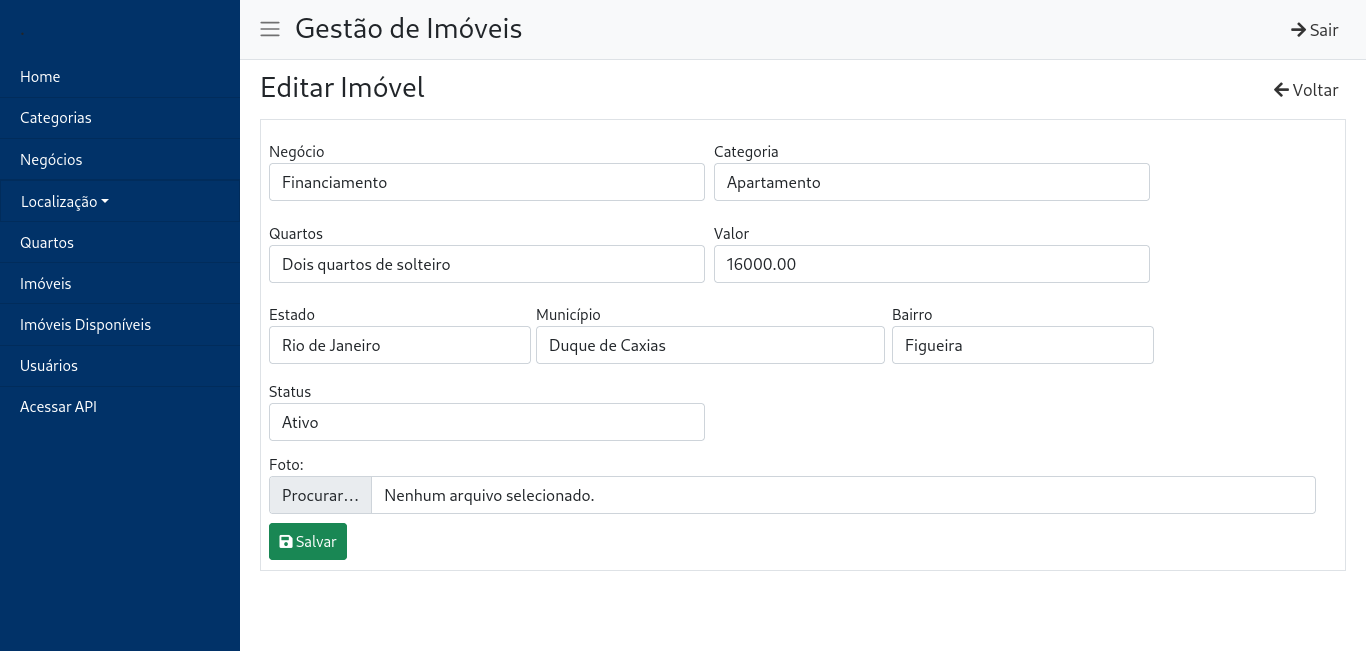
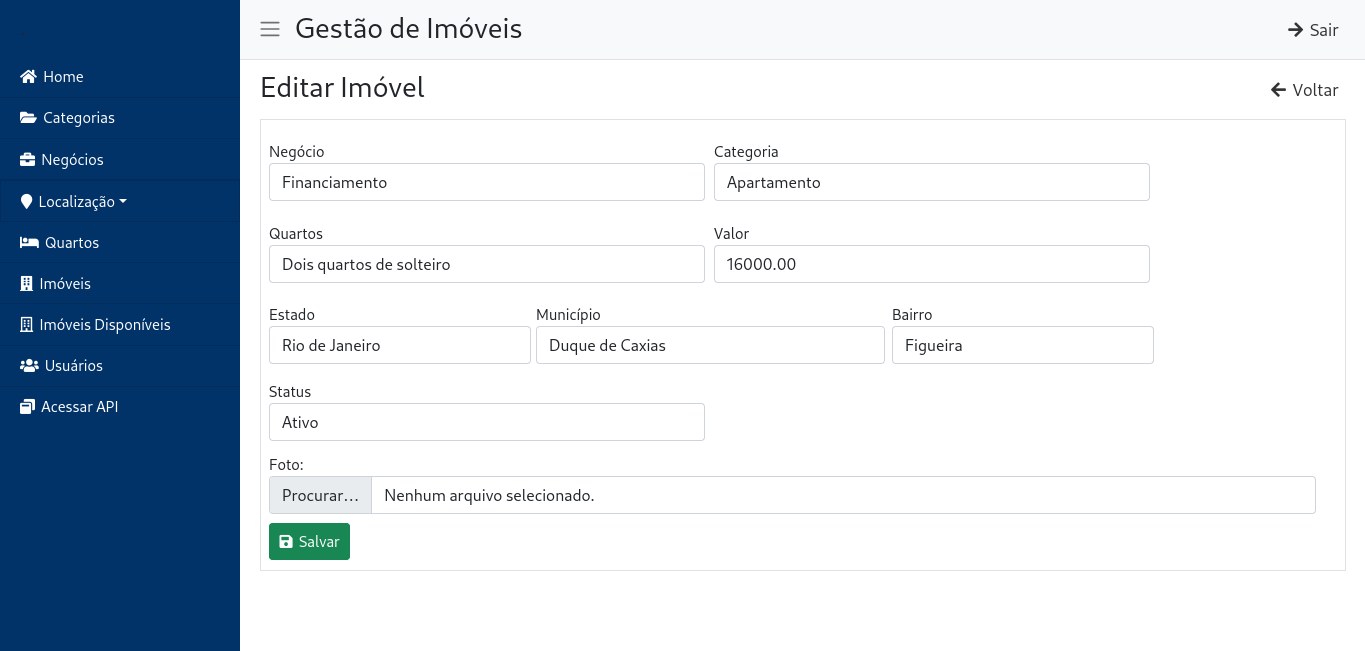
Atualização de arquivos

diff --git a/src/main/resources/templates/fragments/layout.html b/src/main/resources/templates/fragments/layout.html
@@ -26,16 +26,19 @@
     <div class="bg-dark border-right text-white" id="sidebar-wrapper">
         <div class="sidebar-heading text-dark">.</div>
         <div class="list-group list-group-flush">
-            <a class="list-group-item list-group-item-action bg-dark text-white" th:href="@{/}">Home</a>
+            <a class="list-group-item list-group-item-action bg-dark text-white" th:href="@{/}">
+                <i class="fas fa-home"></i> Home</a>
             <a class="list-group-item list-group-item-action bg-dark text-white"
-               th:href="@{/classificador/categorias}">Categorias</a>
+               th:href="@{/classificador/categorias}">
+                <i class="fas fa-folder-open"></i> Categorias</a>
             <a class="list-group-item list-group-item-action bg-dark text-white"
-               th:href="@{/classificador/negocios}">Negócios</a>
+               th:href="@{/classificador/negocios}">
+                <i class="fas fa-briefcase"></i> Negócios</a>
             <div class="dropright show">
                 <a class="list-group-item list-group-item-action bg-dark text-white dropdown-toggle"
                    href="#" role="button" id="dropdownMenuLink" data-toggle="dropdown" aria-haspopup="true"
                    aria-expanded="false">
-                    Localização</a>
+                    <i class="fas fa-map-marker"></i> Localização</a>
                 <div class="dropdown-menu bg-dark" aria-labelledby="dropdownMenuLink">
                     <a class="dropdown-item text-white bg-dark" th:href="@{/localidade/estados}">Estados</a>
                     <a class="dropdown-item text-white bg-dark" th:href="@{/localidade/municipios}">Municípios</a>
@@ -43,14 +46,16 @@
                 </div>
             </div>
             <a class="list-group-item list-group-item-action bg-dark text-white"
-               th:href="@{/classificador/quartos}">Quartos</a>
-            <a class="list-group-item list-group-item-action bg-dark text-white" th:href="@{/imovel/todos}">Imóveis</a>
+               th:href="@{/classificador/quartos}">
+                <i class="fas fa-bed"></i> Quartos</a>
+            <a class="list-group-item list-group-item-action bg-dark text-white" th:href="@{/imovel/todos}">
+                <i class="fas fa-building"></i> Imóveis</a>
             <a class="list-group-item list-group-item-action bg-dark text-white" th:href="@{/imovel/imoveis-disponiveis}"
-               target="_blank">Imóveis Disponíveis</a>
+               target="_blank"><i class="fas fa-building" style="font-weight: 100 !important"></i> Imóveis Disponíveis</a>
             <a class="list-group-item list-group-item-action bg-dark text-white"
-               th:href="@{/usuario/todos}">Usuários</a>
+               th:href="@{/usuario/todos}"><i class="fas fa-users"></i> Usuários</a>
             <a class="list-group-item list-group-item-action bg-dark text-white" th:href="@{/swagger-ui.html}"
-               target="_blank">Acessar API</a>
+               target="_blank"><i class="fas fa-window-restore"></i> Acessar API</a>
         </div>
     </div>
     <!-- /#sidebar-wrapper -->

diff --git a/src/main/resources/static/css/style.css b/src/main/resources/static/css/style.css
@@ -172,6 +172,10 @@ form {
     margin: 5px 0px !important;
 }
 
+.fa, .fas {
+    margin-right: 3px !important;
+}
+
 .btn-default {
     color: #333 !important;
     font-size: 17px !important;
